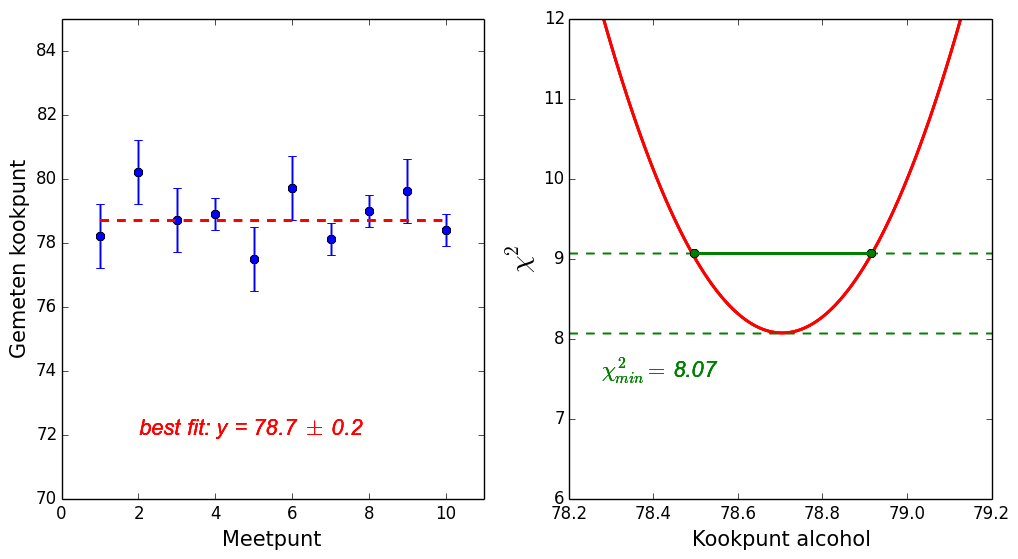
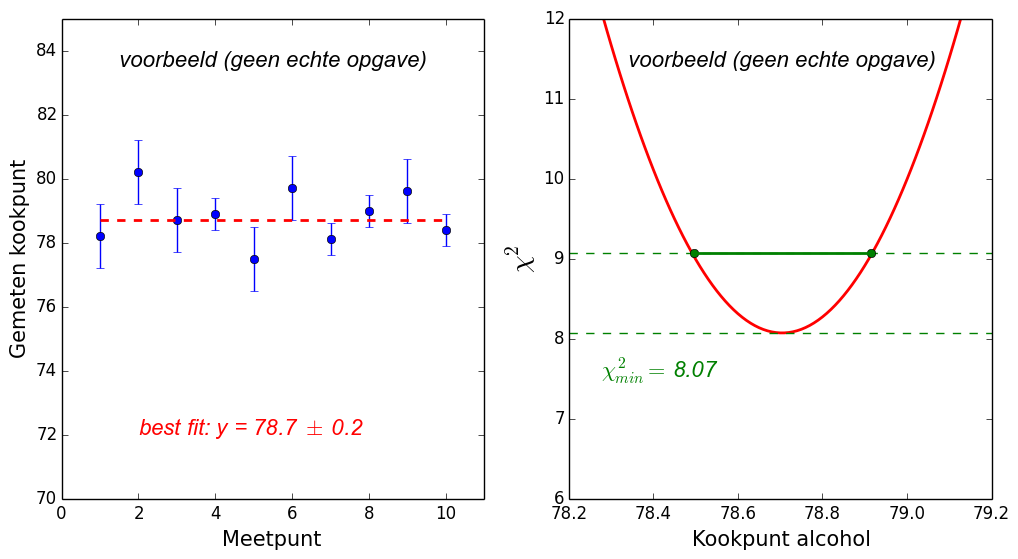
dummy

diff --git a/100 Extra/30 Statistics/10 Statistics.md b/100 Extra/30 Statistics/10 Statistics.md
@@ -203,7 +203,6 @@ van de $$\chi^2$$ veranderen (die wordt groter wat een slechtere overeenkomst
 met de data betekent). Het verschil tussen de waarde van de $$\alpha$$ waarbij
 de $$\chi^2$$ precies 1 unit toeneemt en $$\alpha_{\rm best}$$ noemen we de
 onzekerheid op $$\alpha$$. Dit wordt vaak omschreven als $$\Delta \alpha$$. 
-
 Bij het berekenen van de $$\chi^2$$ zien we dat er is het gebied is $$ 78.5 < \alpha <78.9$$ 
 waarvoor de $$\chi^2$$ minder dan 1 unit verschilt van $$\chi^2_{min}$$. Het resultaat 
 van de fit, en dus het result van de gecombineerde schattig van het kookpunt van alcohol 
@@ -215,6 +214,11 @@ door de hele groep  studenten samen wordt gegeve door:
 altijd het geval te zijn. Evalueer dus altijd de negatieve en positieve fout afzonderlijk 
 door te kijken hoe de $$\chi^2$$ verandert als je de parameters respectievelijk kleiner en 
 groter maakt.
+
+#### voorbeeld [stap 5]: de bijbehorende plots
+
+![](FitExampleWebsite.png){: style="width:35%"}
+
 
 
 
